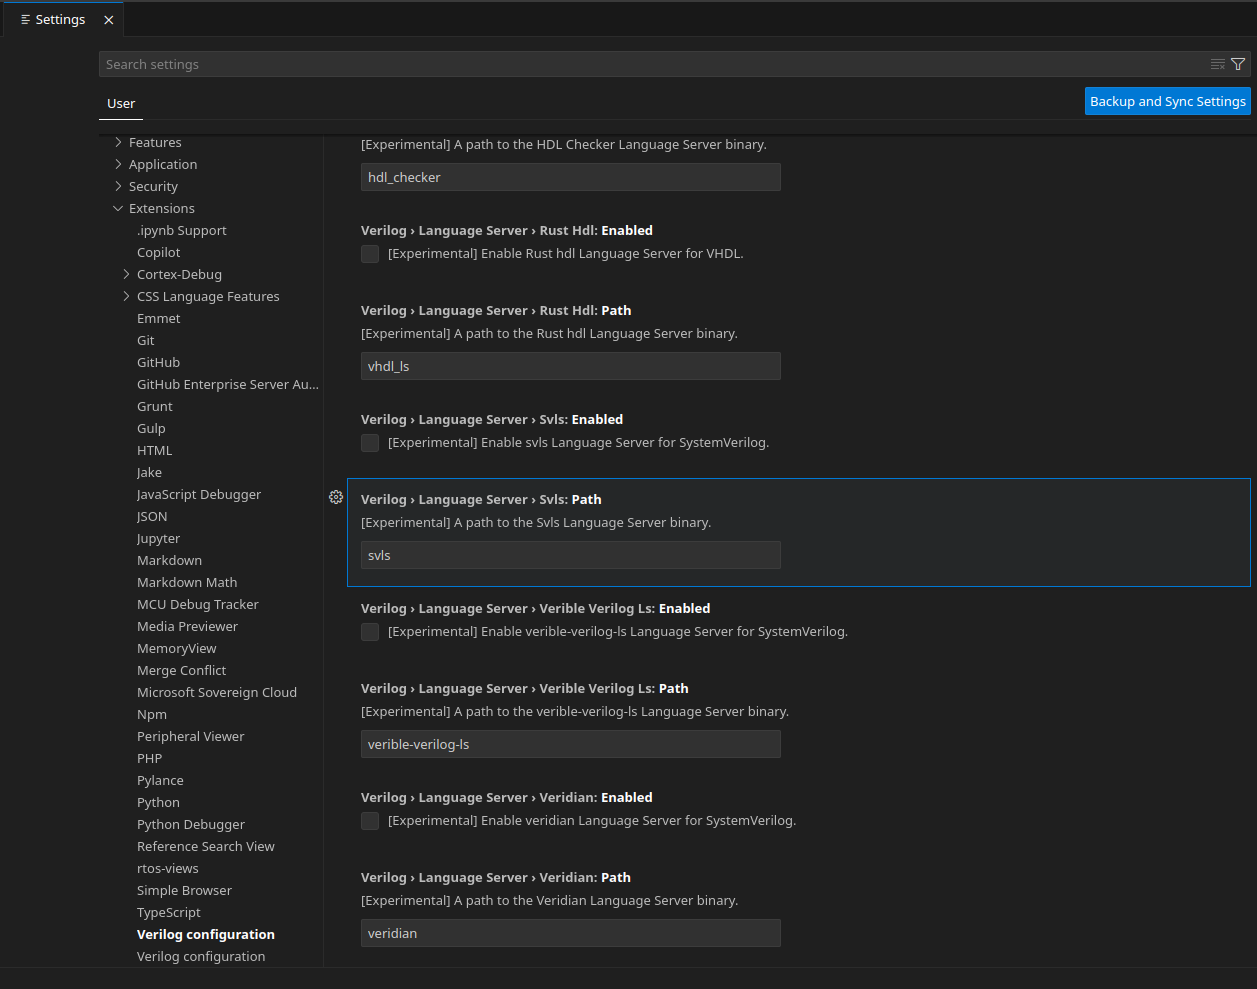
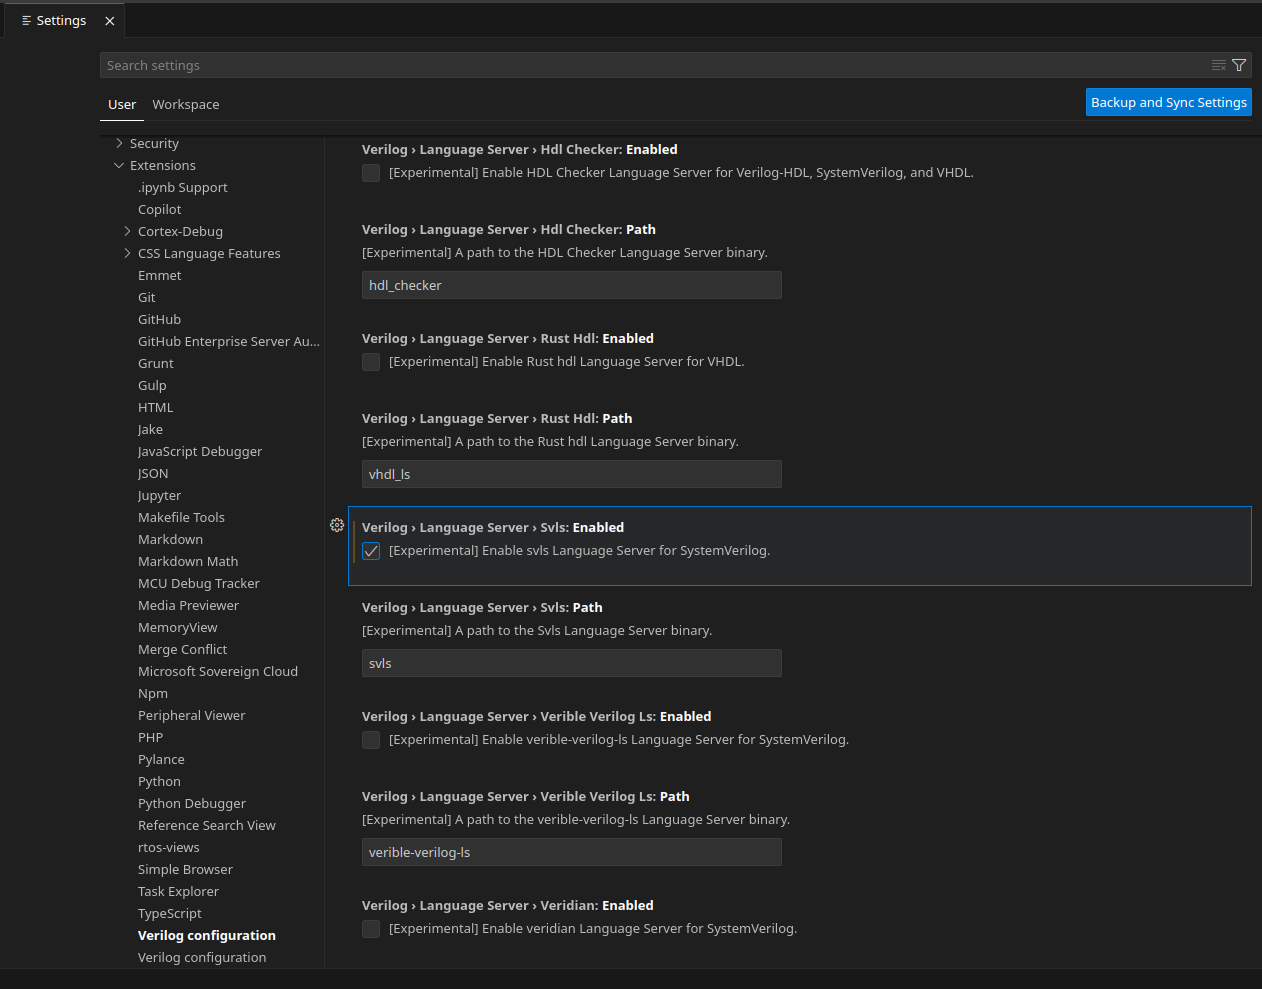
WIP

diff --git a/IcarusVerilog_VScode/README.md b/IcarusVerilog_VScode/README.md
@@ -2,26 +2,20 @@
 
 Это памятка по созданию среды разработки прошивок под FPGA в дистрибутивах GNU Linux. Используемый дистрибутив - Manjaro Linux версии 23.1.1, FPGA board Terasic DE10-Lite Altera MAX10.
 
-## Icarus Verilog
+## Icarus Verilog  
 *Icarus Verilog* — компилятор языка описания аппаратуры Verilog. Используется для симуляции и верификации проектов. Для загрузки используем менеджер пакетов Manjaro - *pamac*. В терминале вводим следующую команду:
 ```
 pamac install iverilog
 ```
+[Документация](https://steveicarus.github.io/iverilog/index.html) на *Icarus Verilog*
 
-## Установка необходимых расширений для VSCode   
+## Установка необходимых расширений для VSCode
 
 ### Verilog-HDL/SystemVerilog/Bluespec SystemVerilog
 
 Для комфортной работы с Verilog нам потребуется расширение, обеспечивающее подсветку синтаксиса языка, форматирование, linting и snippets. Будем использовать **Verilog-HDL/SystemVerilog/Bluespec SystemVerilog** оно не единственное возможное и требует несколько сторонних программ для работы, но это лучшее из того что есть на сегодняшний день. Скачиваем его прямо из *marketplace* в *VSCode*:
 
 ![Task: Verilog-HDL/SystemVerilog/Bluespec SystemVerilog](srcImg/VerilogHDL_SystemVerilog_BluespecSystemVerilog.png)  
-
-Далее установим набор сторонних программ требующихся для работы расширения и произведем настройку. Настройки, которые <u>необходимо</u> применить в панели **Settings** -> **Extensions** будут помечаться следующим образом:
-
-> **Attention:** *настройки* - **Применяемые параметры**
-
-Открыть панель **Settings** на пункте **Extensions** можно сочетанием клавиш *Ctrl + ,*
-на английской раскладке. Или перейти во вкладку **File** -> **Preference** -> **Settings** -> **Extensions**.
 
 #### Syntax Highlighting  
 Поддерживается подсветка синтаксиса для:
@@ -34,28 +28,76 @@ pamac install iverilog
 - Verilog Filelists (dot-F files)
 - Tcl
 
-#### Formatting  
-Сtags. Он даст минимальный autocomplete. Загружаем:
+Далее установим набор сторонних программ требующихся для работы расширения и произведем настройку. Настройки, которые <u>необходимо</u> применить в панели **Settings** -> **Extensions** будут помечаться следующим образом:
+
+> **Attention:** *настройки* - **Применяемые параметры**
+
+Открыть панель **Settings** на пункте **Extensions** можно сочетанием клавиш *Ctrl + ,*
+на английской раскладке. Или перейти во вкладку **File** -> **Preference** -> **Settings** -> **Extensions**.
+
+> **Attention:** *Verilog › Logging: Enabled* - **YES**
+
+#### Сtags
+  
+Сtags даст автозаполнение, переход к определению и его просмотра, инстраляцию модулей и некоторые другие возможности. Загружаем:
 ```
 pamac install ctags 
 ```
 
+Проверям наличие *PATH environment*:
+> **Attention:** *Verilog › Ctags: Path* - **ctags**
+
+![Task: Verilog › Linting: Linter ](srcImg/Extensions_ctags_PATH.png)
+
+
+Добавляем следующие настройки в *.vscode/settings.json* в нашу рабочую область.
+```json
+{
+    "ctags-companion.command": "ctags -R --fields=+nKz -f .vscode/.tags --langmap=SystemVerilog:+.v -R rtl /opt/uvm-1.2/src",
+    "ctags-companion.readtagsEnabled": true,
+}
+```
+Это нужно, чтобы поиск осуществлялся не только в рабочей области, но и в файлах за ее пределами (например, */opt/uvm-1.2/src* в примере выше). А readtags, позволит осуществлять быстрый поиск в больших рабочих пространствах.
+
 #### Linting  
+Линтинг — это автоматизированный процесс анализа кода и поиска потенциальных ошибок. Помимо поиска ошибок, линтер во многих случаях может исправить те самые ошибки автоматически.
+
+Выбираем линтер:
+> **Attention:** *Verilog › Linting: Linter* - **iverilog**
+
+![Task: Verilog › Linting: Linter ](srcImg/Extensions_Verilog_Linting_Linter.png)  
+
+
+В Icarus Verilog можно указать собственные аргументы для проверки, например *-Wall*.
+> **Attention:** *Verilog › Linting › Iverilog: Arguments* - **-Wall**
+
+![Task: Verilog › Linting › Iverilog: Arguments ](srcImg/Extensions_Verilog_Linting_Iverilog_Arguments.png)  
+
+
+Список путей к директориям, которые будут использоваться при проверке *Icarus Verilog linting*.
+> **Attention:** Verilog › Linting › Iverilog: Include Path - **-I <directory_path>**
+
+
+По умолчанию линтер будет запускаться в каталоге рабочей области. Если включить эту опцию, то линтер будет запускаться из места, где находится файл для проверки. Важный момент, если подключены директивы include, то они должны содержать пути к файлам относительно файла для проверки.
 > **Attention:** *Verilog › Linting › Iverilog: Run At File Location* - **Поставить галочку**
 
 ![Task: Verilog › Linting › Iverilog: Run At File Location ](srcImg/Extensions_Linting_Iverilog_RunAtFileLocation.png)  
 
-**Verilog › Linting: Linter** - **iverilog**
-![Task: Verilog › Linting: Linter ](srcImg/Extensions_Verilog_Linting_Linter.png)  
 
-
-#### Snippets 
-языковой сервер svls. Добавит предупреждений на кривом коде
+#### Language Server 
+Языковой сервер - это специальная программа, работающая на сервере. Он принимает мета-состояние редактора и возвращает набор действий или инструкций. Используем языковой сервер svls, он будет уведомлять наш редактор об обнаруженных ошибках и предупреждениях.
 Для загрузки используем помощник *Aur* - *yay*
 ```
 yay -S svls
 ```
 
+Проверям наличие *PATH environment*:
+> **Attention:** *Verilog › Language Server › Svls: Path* - **svls**
+
+![Task: Verilog: Language Server - svls ](srcImg/Extensions_LanguageServer_svls_PATH.png)  
+
+
+Выбираем языковой сервер:
 > **Attention:** *Verilog: Language Server* - **svls**
 
 ![Task: Verilog: Language Server - svls ](srcImg/Extensions_LanguageServer_svls.png)  
